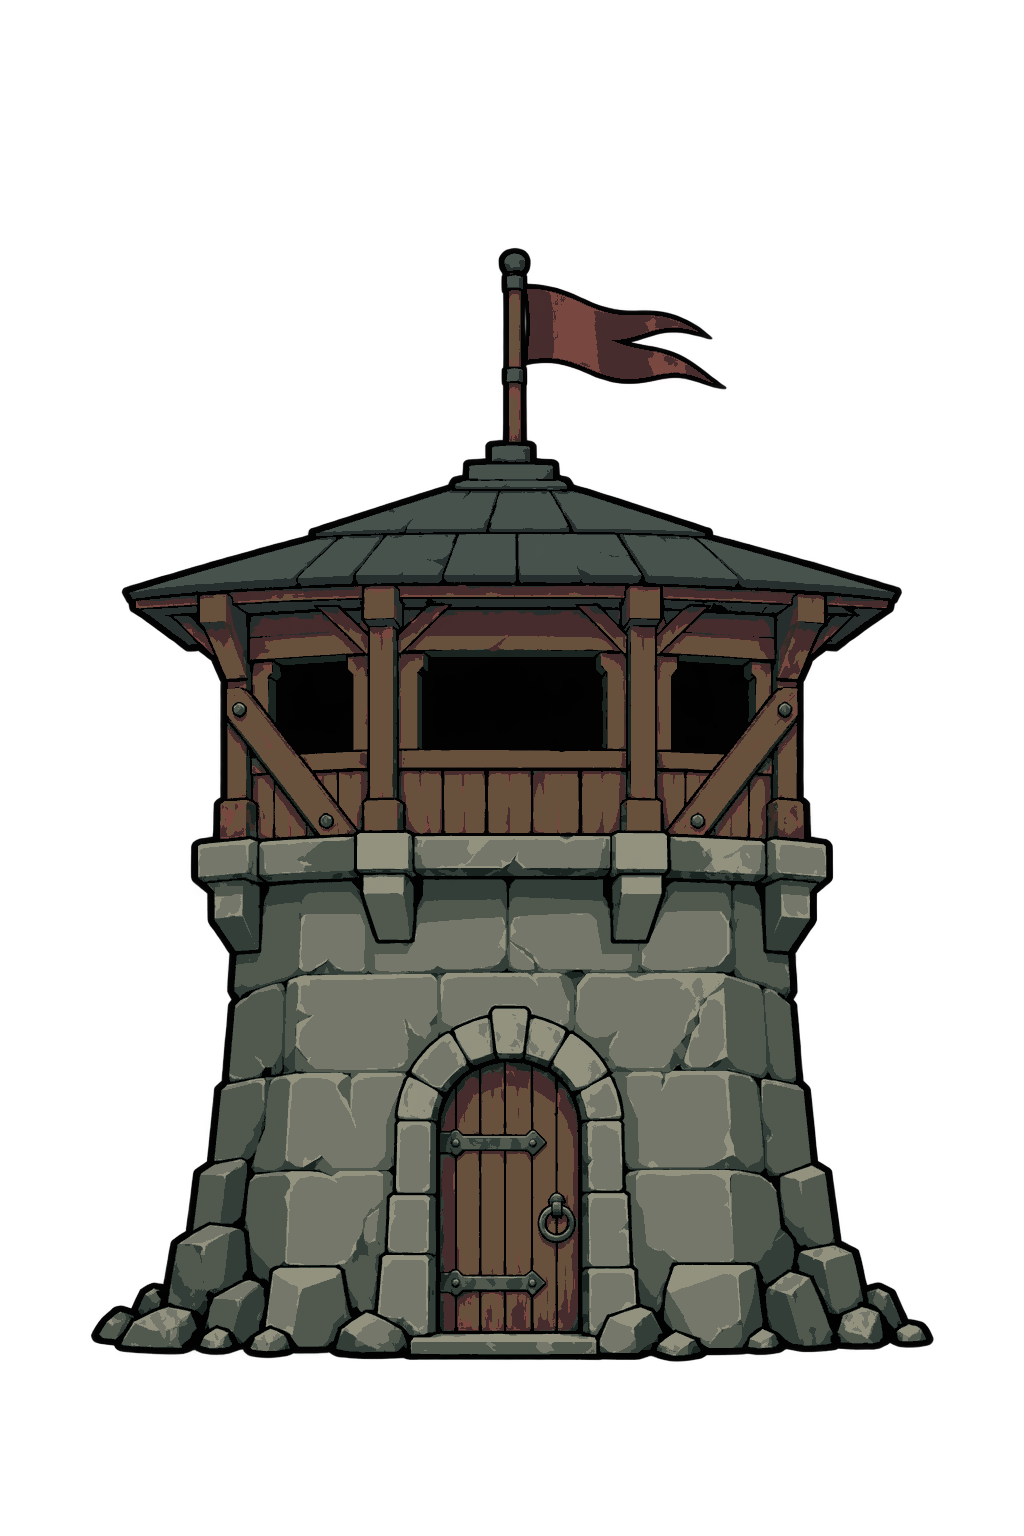
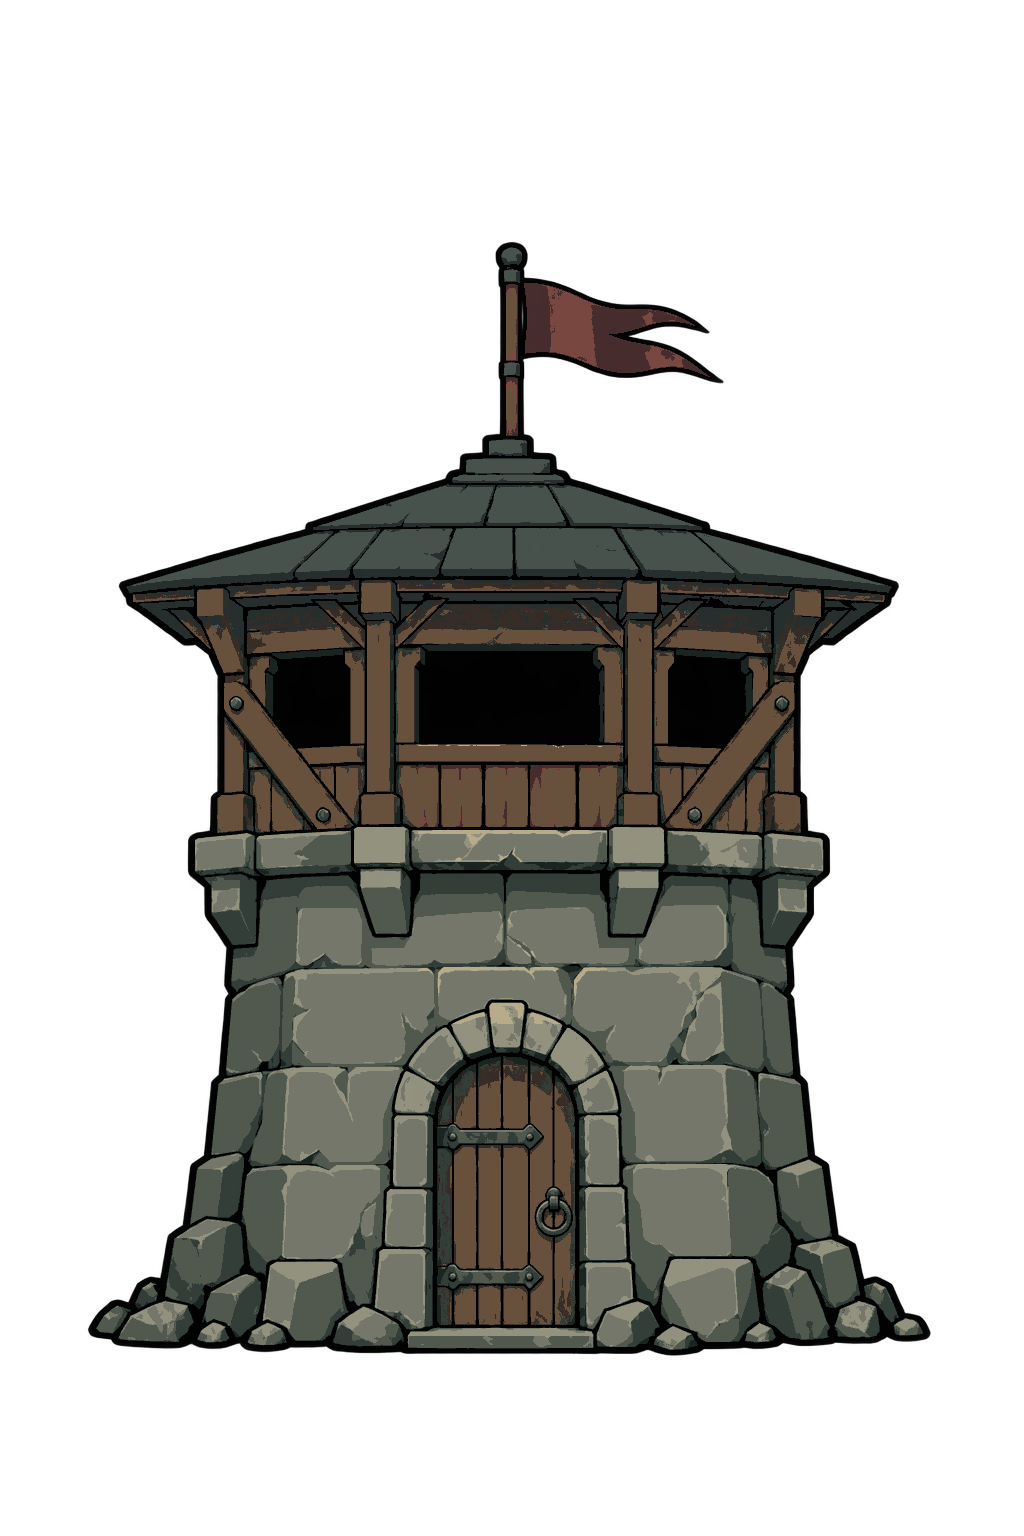
Add tower simplicity guidance and preserve concurrent artwork delivery

Changed region(s): [[0.0938, 0.1562, 0.9062, 0.9062]]

diff --git a/tools/gloam_renewed_delivery.py b/tools/gloam_renewed_delivery.py
@@ -1,0 +1,72 @@
+"""Enforce the new family palette, align without resampling, and install sprites."""
+import argparse
+import json
+from pathlib import Path
+import numpy as np
+from PIL import Image, ImageDraw
+from gloam_renewed_palette import convert, PALETTE
+
+NAMES = ['level-1', 'level-2', 'level-3', 'tier-4-frost', 'tier-4-poison']
+TARGETS = ['1.png', '2.png', '3.png', '4/frostneedle.png', '4/thorn_volley.png']
+ROOT = Path(__file__).resolve().parents[1]
+OUTPUT = ROOT / 'docs/concepts/gloam-renewed'
+
+def measure(a):
+    # Ground contact: bottom opaque pixel of the central entrance step.
+    baseline = int(np.flatnonzero(a[1200:, 512, 3] > 240)[-1]) + 1200
+    # Door center: median midpoint of its timber interior, well below the arch.
+    centers = []
+    for y in range(baseline - 190, baseline - 80):
+        row = a[y, 420:605]
+        timber = np.all(row[:, :3] == PALETTE[9], axis=1)
+        xs = np.flatnonzero(timber)
+        if len(xs) > 70:
+            centers.append((int(xs[0]) + int(xs[-1])) / 2 + 420)
+    assert centers, 'Cannot find doorway center'
+    return [int(round(float(np.median(centers)))), baseline]
+
+def main(source):
+    report = {'canvas': [1024, 1536], 'ground_anchor': [512, 1352],
+              'muzzle_pixel': [512, 702], 'method': 'color-only material mapping, then integer translation', 'stages': {}}
+    gallery = Image.new('RGB', (1280, 440), '#293633')
+    draw = ImageDraw.Draw(gallery)
+    union = set()
+    for i, (name, target) in enumerate(zip(NAMES, TARGETS)):
+        dest = OUTPUT / (name + '.png')
+        item = convert(source / (name + '.png'), dest)
+        a = np.array(Image.open(dest))
+        assert a.shape == (1536, 1024, 4)
+        before = measure(a)
+        dx, dy = 512 - before[0], 1352 - before[1]
+        out = np.zeros_like(a)
+        sx0, sx1 = max(0, -dx), min(1024, 1024-dx)
+        sy0, sy1 = max(0, -dy), min(1536, 1536-dy)
+        keep = np.zeros(a.shape[:2], bool)
+        keep[sy0:sy1, sx0:sx1] = True
+        assert not np.any(a[:, :, 3][~keep]), 'Translation would clip nontransparent pixels'
+        out[sy0+dy:sy1+dy, sx0+dx:sx1+dx] = a[sy0:sy1, sx0:sx1]
+        assert measure(out) == [512, 1352]
+        Image.fromarray(out).save(dest)
+        installed = ROOT / 'assets/artwork/tower/rapid' / target
+        installed.write_bytes(dest.read_bytes())
+        saved = np.array(Image.open(dest))
+        colors = set(map(tuple, np.unique(saved[:, :, :3][saved[:, :, 3] > 0], axis=0)))
+        assert colors <= set(map(tuple, PALETTE))
+        assert tuple(saved[702, 512, :3]) == (0, 0, 0) and saved[702, 512, 3] > 240
+        assert saved[100, 100, 3] == 0
+        union |= colors
+        item.update(before_anchor=before, translation=[dx, dy], after_anchor=measure(saved),
+                    clipped_pixels=0, black_projectile_outlet=True)
+        report['stages'][name] = item
+        thumb = Image.fromarray(saved).resize((256, 384), Image.Resampling.LANCZOS)
+        gallery.paste(thumb, (i*256, 12), thumb)
+        draw.text((i*256+65, 405), name, fill='#DDD0AF')
+    report['family_color_count'] = len(union)
+    (OUTPUT / 'verification.json').write_text(json.dumps(report, indent=2)+'\n')
+    gallery.save(OUTPUT / 'family-preview.png')
+    print(json.dumps(report, indent=2))
+
+if __name__ == '__main__':
+    parser = argparse.ArgumentParser(description=__doc__)
+    parser.add_argument('source', type=Path)
+    main(parser.parse_args().source)

diff --git a/docs/IMAGE_GENERATION_INSTRUCTIONS.md b/docs/IMAGE_GENERATION_INSTRUCTIONS.md
@@ -6,6 +6,14 @@ tower design.
 
 ## Art style
 
+Build the tower from a small number of large, clearly readable structural shapes.
+Use bold black outer contours and dark separations between major components.
+Describe each material with two or three broad, flat shading planes and occasional
+angular highlights. Keep construction lines, ornament, and surface damage sparse.
+Add only subtle weathering after the tower's main shapes already read clearly.
+Preserve a strong silhouette at thumbnail size, and show upgrades through distinct
+structural additions rather than extra surface detail.
+
 Create stylized 2D dark medieval fantasy: bold black outlines, strong angular
 silhouettes, chunky shapes and broad, flat color planes. Suggest depth with a
 few hard-edged shadow facets rather than smooth gradients. Materials should
